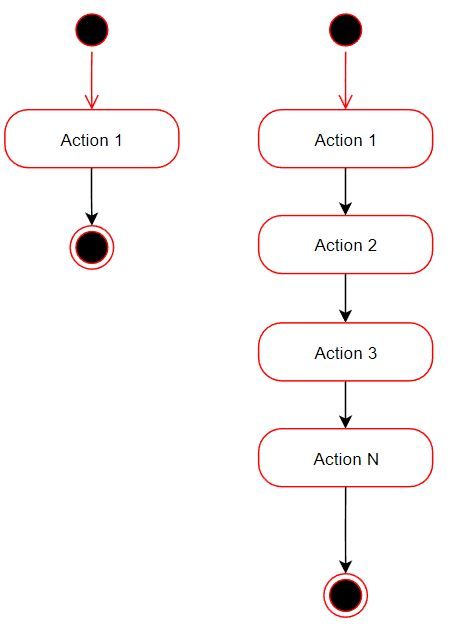
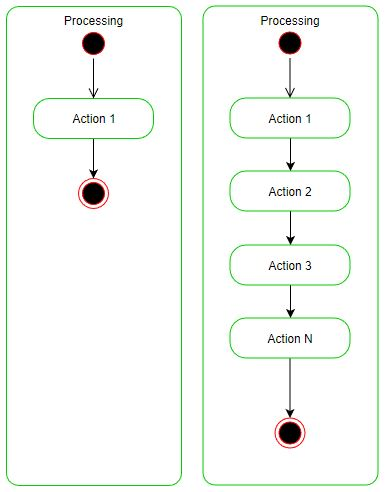
adding F1 processing with schema

Changed region(s): [[0.4663, 0.0, 0.9948, 1.0], [0.0, 0.0, 0.4663, 0.9756], [0.0311, 0.9756, 0.4663, 1.0]]

diff --git a/docs/funtions/processing/prg-fct-1.md b/docs/funtions/processing/prg-fct-1.md
@@ -12,5 +12,25 @@ permalink: /docs/functionalities/processing/function1
 
 ## Présentation
 
-<p align="center"><img src="../../../assets/img/functions/FCT--Framework--Functions--Processing--F1.jpg" width="300"></p>
-La première fonction du Processing est de pouvoir executer une ou plusieurs activités à la suite
+<p align="center"><img src="../../../assets/img/functions/FCT--Framework--Functions--Processing--F1.jpg" width="500"></p>
+
+Vous l'avez compris, la fonction primaire du Processing est de pouvoir executer une ou plusieurs actions à la suite.
+C'est à première vue une fonctionalité basique et simple mais qui induit des sous fonctionalités importante.
+
+## Error Handling
+
+<p align="center"><img src="../../../assets/img/functions/FCT--Framework--Functions--Processing--F1--ErrorHandling.jpg" width="500"></p>
+En cas d'erreur sur une activité lors de son execution, il est important de savoir quel choix devra être fait:
+1. Je continue le flux
+2. J'arrête le flux
+Si l'on continue, il faudra s'assurer que c'est effectivement possible.
+En cas d'arrêt, il faut monitorer tout ce qui est disponible.
+
+## Monitoring
+
+<p align="center"><img src="../../../assets/img/functions/FCT--Framework--Functions--Processing--F1--Monitoring.jpg" width="500"></p>
+Ici une des pièces maitresse de **SAI** car l'execution d'une ou plusieurs activités peut se faire sur un ou plusieurs thread dépendamment de la puissance souhaitée et du logiciel du framework.
+Dans le cas de **SAIF** (Satisc Application Integration Framework), un thread de Processing correspondra à une ou plusieurs actions dans un seul et même stage. Ceci ayant pour but de garantir un bon équilibre entre performances/maintenance.
+>**Attention**: il a été volontairement choisi de ne pas executer plusieurs Stage dans un seul Processing à cause de la complexité du code et donc de sa maintenance avec le produit ITX. Ceci l'exclus pas cette possibilité avec un autre logiciel.
+
+La problématique de **SAIF** est qu'il est difficile de suivre une execution en détail car les outils de base de ITX sont limités. L'idée est de réussir à faire du monitoring presque en temps réel.
